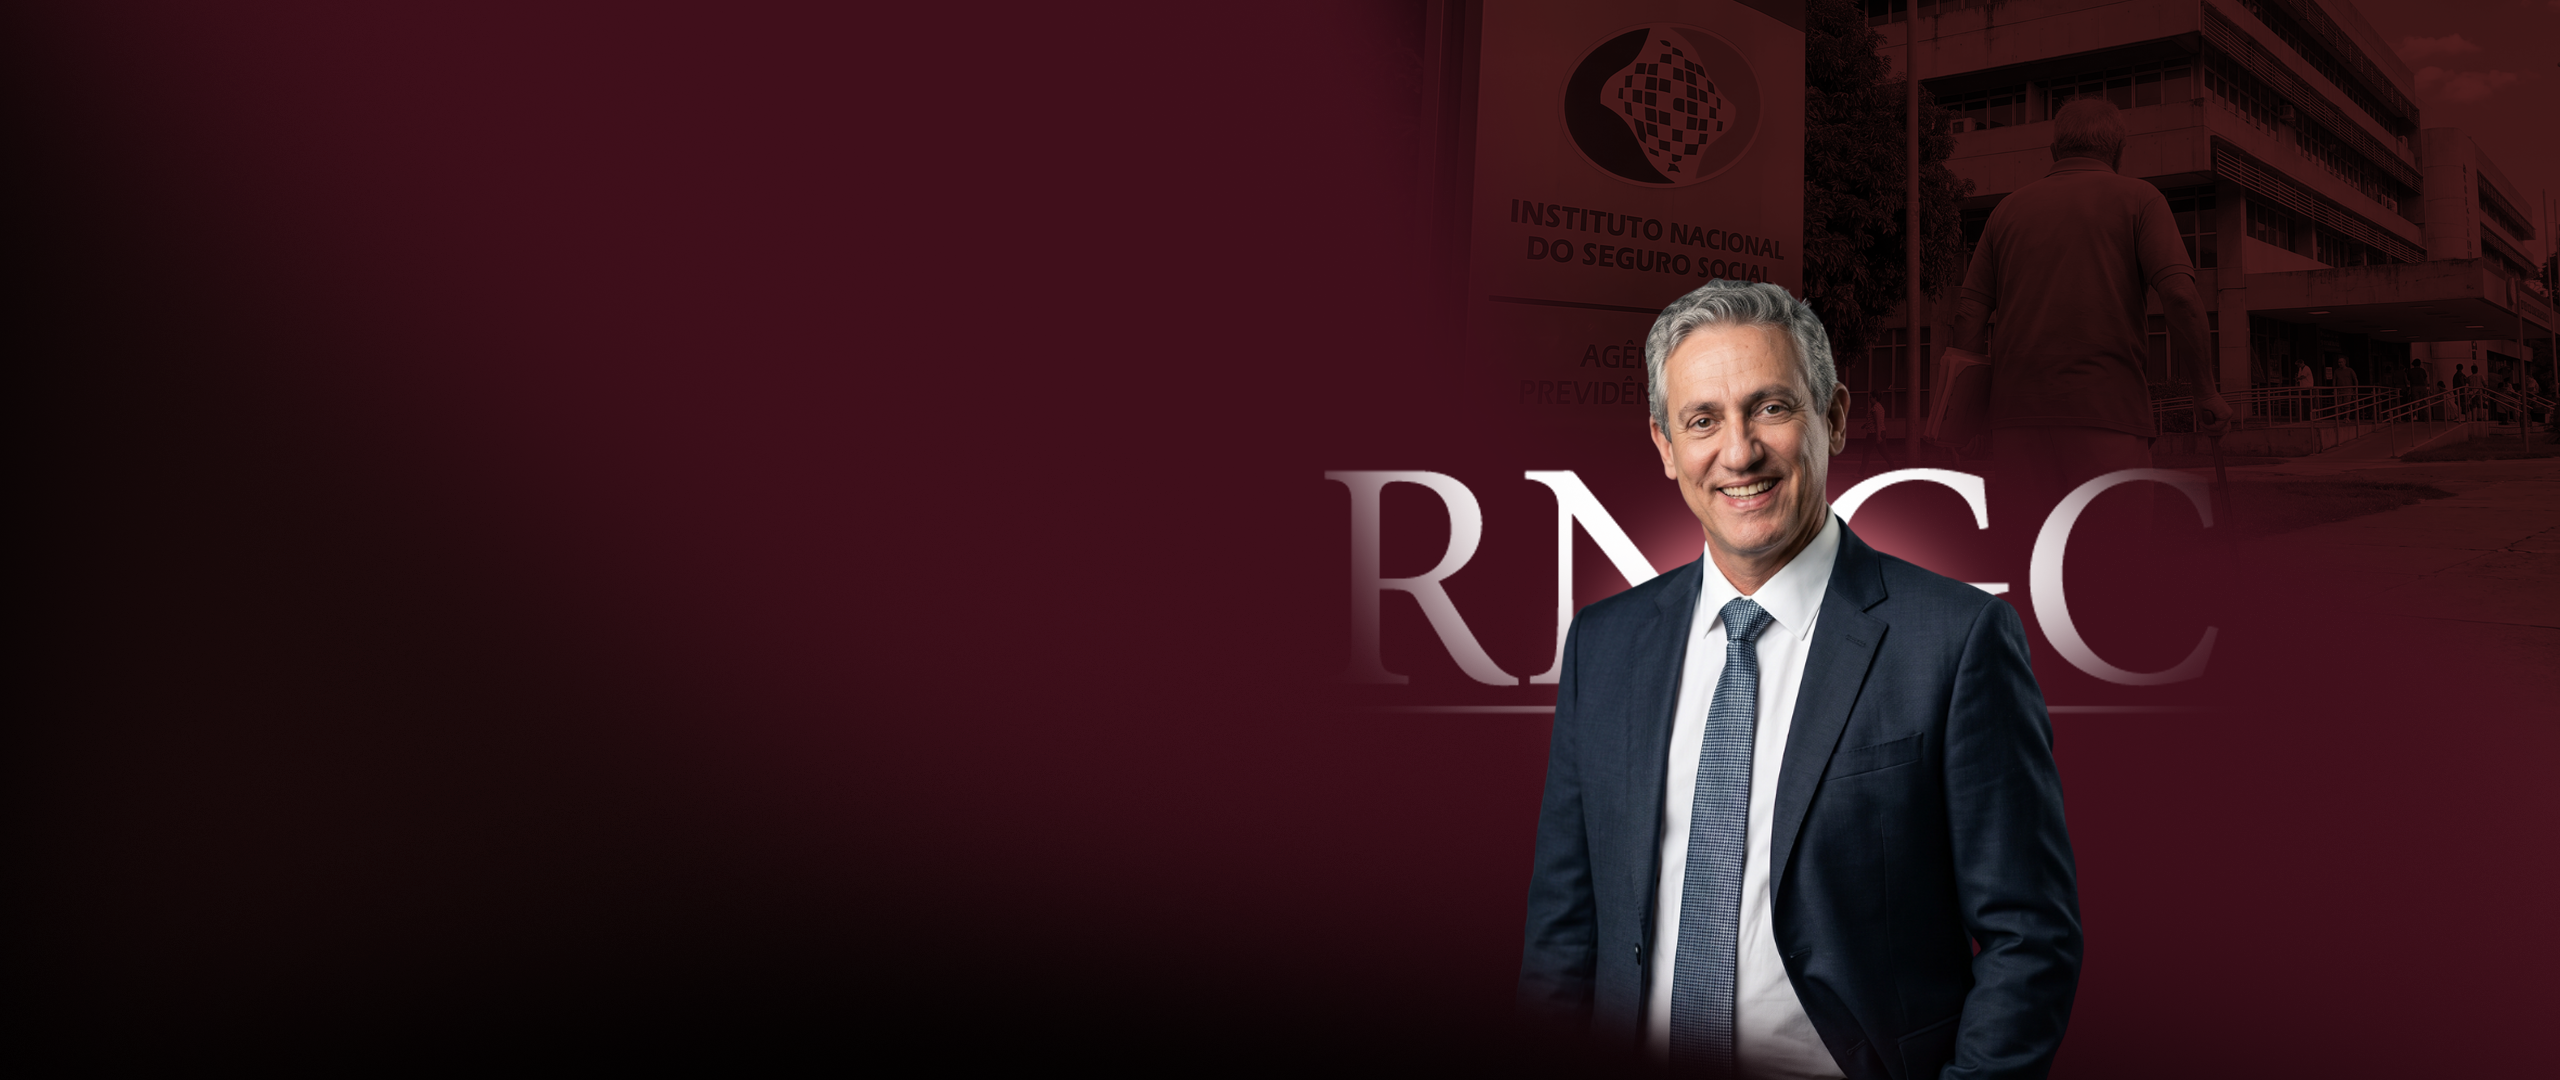
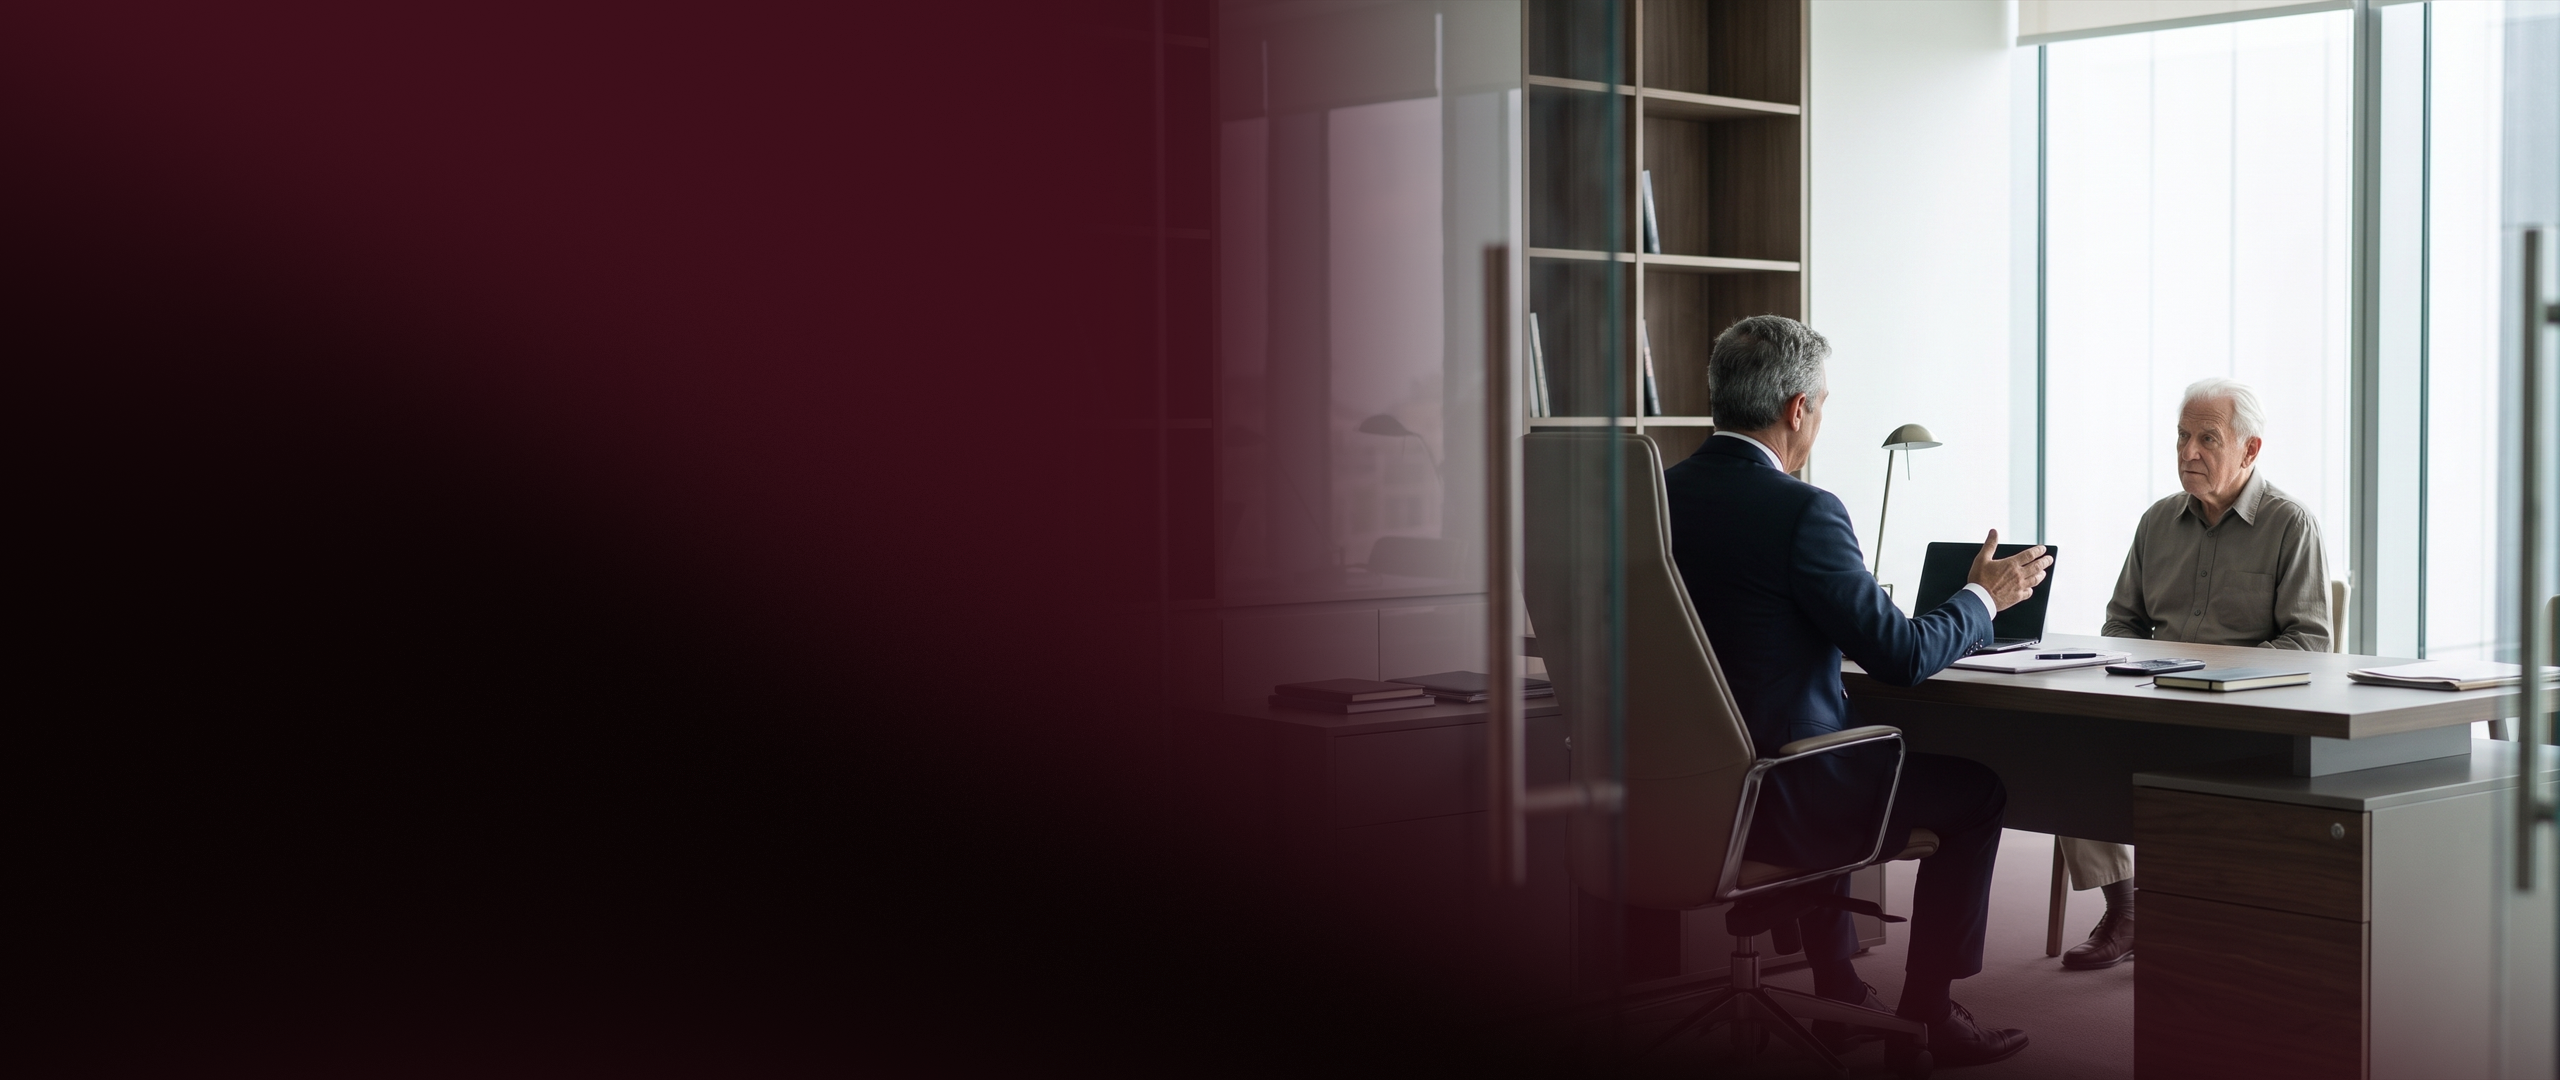
Ajuste visual: reduz tamanho da fonte do subtítulo da Hero e atualiza backg01

diff --git a/assets/css/style.css b/assets/css/style.css
@@ -226,10 +226,10 @@ h1#hero-title em {
 }
 .hero-title-subtext {
   display: block;
-  font-size: clamp(1.25rem, 2.2vw, 1.85rem);
-  line-height: 1.25;
+  font-size: clamp(1rem, 1.5vw, 1.25rem);
+  line-height: 1.35;
   color: rgba(255, 255, 255, 0.92);
-  margin-top: 10px;
+  margin-top: 12px;
   font-weight: 400;
 }
 .hero-title-subtext em {
